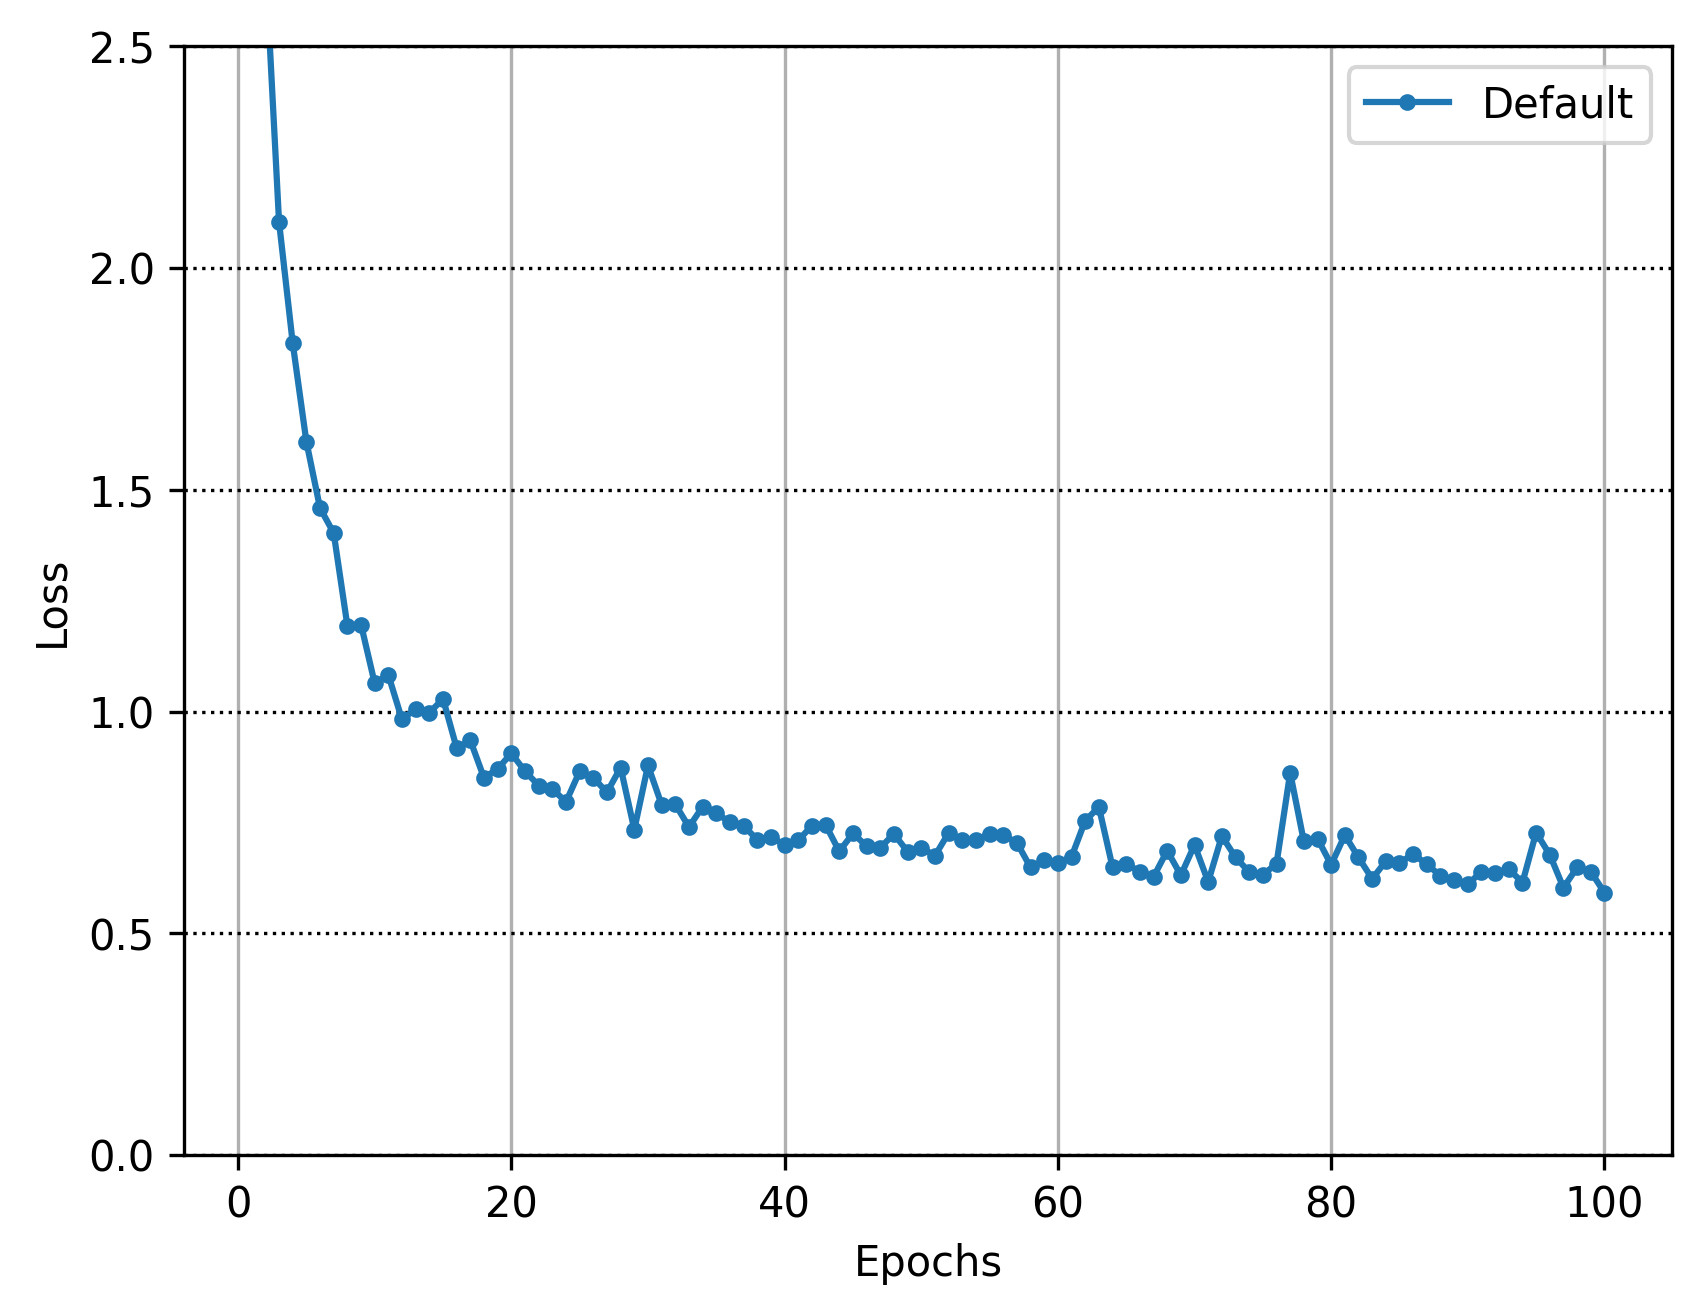
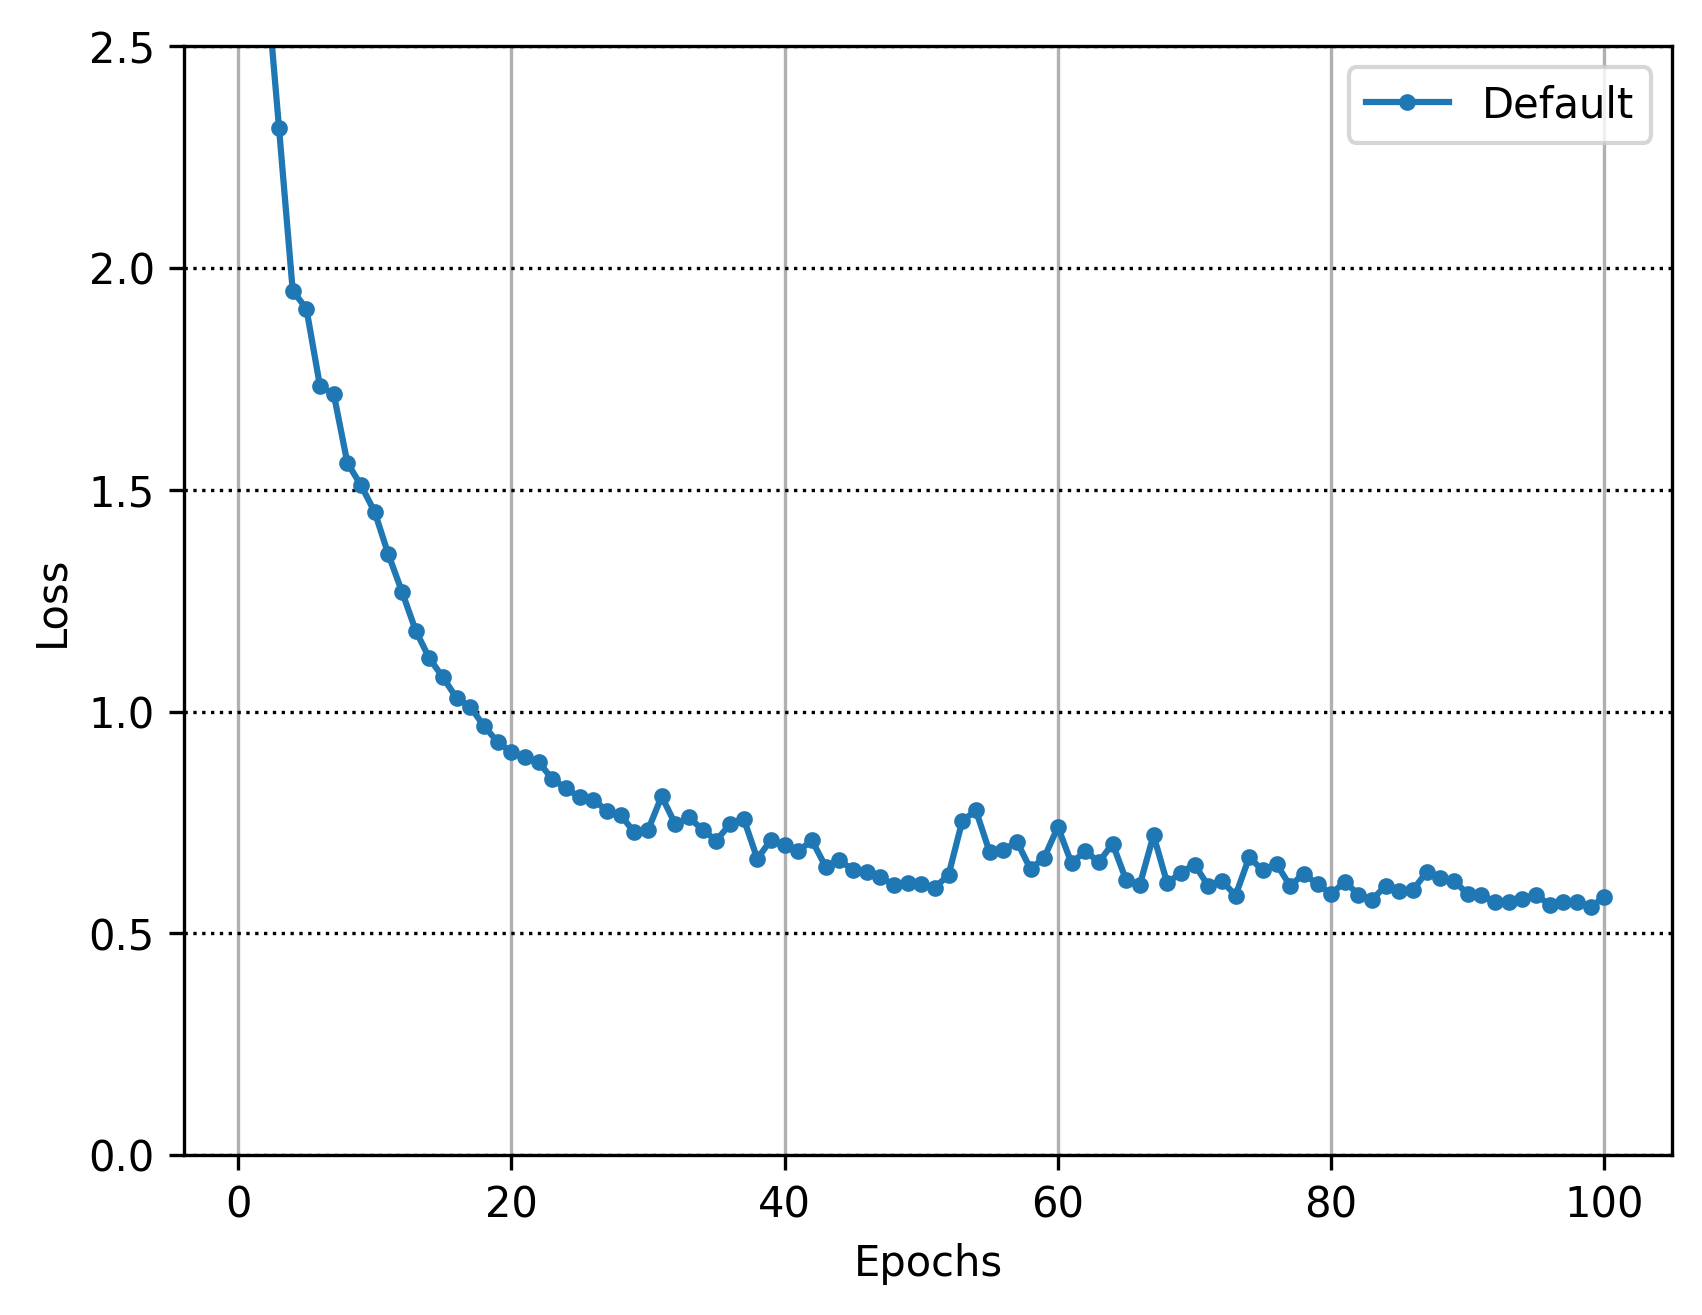
update: 情報処理学会の全国大会に対応したコード

Changed region(s): [[0.1557, 0.0312, 0.9653, 0.7171]]

diff --git a/ContinuousSignLanguage/cnn_transformer/continuous_sign_language_cnn_transformer/modeling/train_functions.py b/ContinuousSignLanguage/cnn_transformer/continuous_sign_language_cnn_transformer/modeling/train_functions.py
@@ -335,16 +335,12 @@ def test_loop_csir_s2s(dataloader,
             ref_length = len(tokens)
             tokens = tokens.tolist()
             pred_ids = [int(x) for x in pred_ids]
-            print(pred_ids)
             pred_ids = remove_consecutive_duplicates([int(x) for x in pred_ids]) # [7, 6]
 
 
             wer = edit_distance(tokens, pred_ids)
-            print("*"*100)
-            print(ref_length, tokens, pred_ids, wer)
-            print("*"*100)
+           
             wer /= ref_length
-            print(wer)
             total_wer += wer
             if batch_idx < verbose_num:
                 print(f"WER: {wer}")
@@ -483,12 +479,11 @@ def make_causal_mask(ref_mask,
                              out=causal_mask).unsqueeze(0)
     return causal_mask
 
-def save_model(save_path, model_default_dict, optimizer_dict, epoch, val_loss):
+def save_model(save_path, model_default_dict, optimizer_dict, epoch):
     torch.save({
         'model_state_dict': model_default_dict,
         'optimizer_state_dict': optimizer_dict,
         'epoch': epoch,
-        'val_losses': val_loss,
     }, save_path)
 
     print(f"モデルとオプティマイザの状態を {save_path} に保存しました。")
@@ -507,7 +502,9 @@ def load_model(save_path: str, device: str = "cpu"):
 
     model_loaded = models.CNNTransformerModel(
         in_channels=in_channels,
-         inter_channels=model_config.inter_channels,
+        inter_channels=model_config.inter_channels,
+        kernel_size=model_config.kernel_size,
+        stride=model_config.stride,
         out_channels=out_channels,
         padding_val=pad_token,
         activation=model_config.activation,
@@ -545,8 +542,7 @@ def load_model(save_path: str, device: str = "cpu"):
     optimizer_loaded.load_state_dict(checkpoint['optimizer_state_dict'])
     
     epoch_loaded = checkpoint.get('epoch', None)
-    val_losses_loaded = checkpoint.get('val_losses', None)
     
     print(f"エポック {epoch_loaded} までのモデルをロードしました。")
     
-    return model_loaded, optimizer_loaded, epoch_loaded, val_losses_loaded, test_dataloader, key2token
+    return model_loaded, optimizer_loaded, epoch_loaded, test_dataloader, key2token

diff --git a/ContinuousSignLanguage/cnn_transformer/models/cnn_model.py b/ContinuousSignLanguage/cnn_transformer/models/cnn_model.py
@@ -40,7 +40,7 @@ class CNNFeatureExtractor(nn.Module):
         return out  # 形状: (batch_size, out_channels, reduced_sequence_length)
 
 class CNNLocalFeatureExtractor(nn.Module):
-    def __init__(self, cnn, window_size=25, stride=1):
+    def __init__(self, cnn, window_size=5, stride=1):
         """
         cnn: 1D CNN モジュール（CNNFeatureExtractorのインスタンス）
         window_size: 固定長ウィンドウのフレーム数（例：5）
@@ -59,8 +59,8 @@ class CNNLocalFeatureExtractor(nn.Module):
 
         #固定長ウィンドウへの分割, 時間軸に沿ってウィンドウを作成  # [N, C*J, T] -> [N, C*J, T-window_size+1(now_windows), window_size]
         N, CJ, T = x.shape
-        if int(T) < 25:
-            pad_size = 25 - T
+        if int(T) < 5:
+            pad_size = 5 - T
             # 最終フレームを取得してpad_size分複製
             last_frame = x[:, :, -1].unsqueeze(2).repeat(1, 1, pad_size)
             # 元のテンソルとパディング分を連結
@@ -82,7 +82,7 @@ class CNNLocalFeatureExtractor(nn.Module):
 
         last_frame = features[:, -1:, :]  # 最後のタイムステップを保持するためにスライス
         # 最後のフレームを4回繰り返す: [N, 4, out_channels]
-        repeated_frames = last_frame.repeat(1, 24, 1)
+        repeated_frames = last_frame.repeat(1, 4, 1)
 
         # オリジナルの特徴量に繰り返されたフレームを追加: [N, num_windows + 4, out_channels]
         x_padded = torch.cat([features, repeated_frames], dim=1)

diff --git a/ContinuousSignLanguage/cnn_transformer/continuous_sign_language_cnn_transformer/modeling/train.py b/ContinuousSignLanguage/cnn_transformer/continuous_sign_language_cnn_transformer/modeling/train.py
@@ -68,6 +68,8 @@ def main():
     train_losses = []
     val_losses = []
     test_wers = []
+    MIN_WER = float('inf')
+    save_path = os.path.join(model_config.model_save_dir, model_config.model_save_path)
     print("Start training.")
     for epoch in range(epochs):
         print("-" * 80)
@@ -91,6 +93,10 @@ def main():
                 return_pred_times=True,
                 verbose_num=0)
             test_wers.append(wer)
+            if MIN_WER > wer:
+                print("最高値更新", wer)
+                functions.save_model(save_path, model_default_dict=cnn_transformer.state_dict(), optimizer_dict=optimizer.state_dict(), epoch=model_config.epochs)
+                MIN_WER = wer
     train_losses_trans = np.array(train_losses)
     val_losses_trans = np.array(val_losses)
     test_wers_trans = np.array(test_wers)
@@ -100,8 +106,6 @@ def main():
     print(f"Minimum validation loss:{val_losses_trans.min()} at {np.argmin(val_losses_trans)+1} epoch.")
     print(f"Minimum WER:{test_wers_trans.min()} at {np.argmin(test_wers_trans)*eval_every_n_epochs+1} epoch.")
 
-    save_path = os.path.join(model_config.model_save_dir, model_config.model_save_path)
-    functions.save_model(save_path, model_default_dict=cnn_transformer.state_dict(), optimizer_dict=optimizer.state_dict(), epoch=model_config.epochs, val_loss=val_losses_trans)
     print(val_losses_trans)
     plot.loss_plot(val_losses_trans)
     plot.test_data_plot(test_wers_trans)

diff --git a/ContinuousSignLanguage/transformer/continuous_sign_language_transformer/modeling/predict.py b/ContinuousSignLanguage/transformer/continuous_sign_language_transformer/modeling/predict.py
@@ -5,7 +5,7 @@ import torch
 if __name__ == "__main__":
     save_path = os.path.join(model_config.model_save_dir, model_config.model_save_path)
     device = "cuda" if torch.cuda.is_available() else "cpu"
-    loaded_model, loaded_optimizer, loaded_epoch, loaded_val_losses, test_dataloader, key2token = functions.load_model(save_path, device)
+    loaded_model, loaded_optimizer, loaded_epoch, test_dataloader, key2token = functions.load_model(save_path, device)
 
     max_seqlen = model_config.max_seqlen
 

diff --git a/ContinuousSignLanguage/cnn_transformer/continuous_sign_language_cnn_transformer/modeling/one_test.py b/ContinuousSignLanguage/cnn_transformer/continuous_sign_language_cnn_transformer/modeling/one_test.py
@@ -18,4 +18,5 @@ if __name__ == "__main__":
                 max_seqlen=max_seqlen,
                 return_pred_times=True,
                 verbose_num=0)
+    
     print(f"ロードしたモデルのテスト精度: {wer}%")

diff --git a/ContinuousSignLanguage/cnn_transformer/continuous_sign_language_cnn_transformer/modeling/config.py b/ContinuousSignLanguage/cnn_transformer/continuous_sign_language_cnn_transformer/modeling/config.py
@@ -2,7 +2,7 @@ inter_channels = 512
 activation="relu"
 
 #detail 1DCNN
-kernel_size = 25
+kernel_size = 5
 stride = 1
 
 #detail transformer encoder
